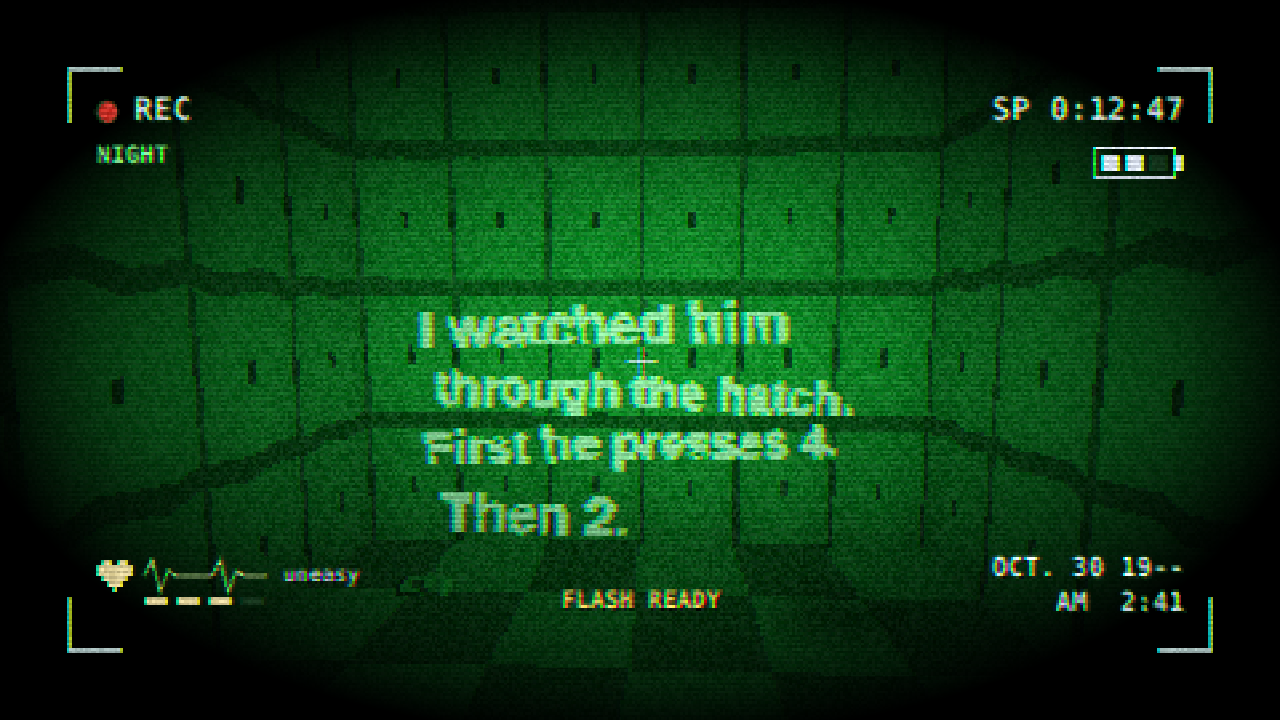
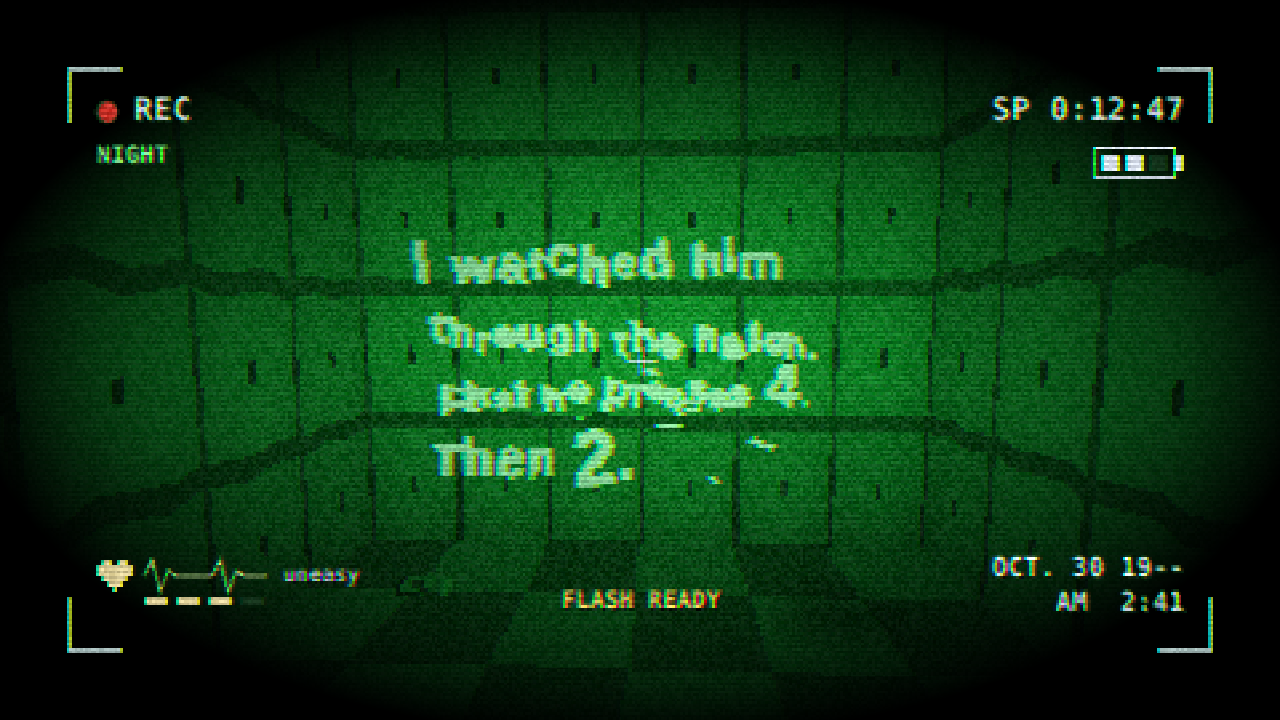
0.2.72: spare batteries feed the camcorder; treatment room and night writing stills redone
Owner picks: the flashlight's batteries fit the camcorder (battery key
while it is raised). Stills: the treatment chair in a pool of light with
instruments, a stain and a box under it; the cell writing as a child's
scratching. New mockup props: surgeryLamp, instrumentTray, floorStain.

Claude-Session: https://claude.ai/code/session_01Kt2ajWcwzg7QhP3mDk3ZUu

Changed region(s): [[0.3125, 0.3361, 0.6875, 0.7639]]

diff --git a/src/props/wardUpper.js b/src/props/wardUpper.js
@@ -105,26 +105,93 @@ function observationGlass(t, { width = 2.4, height = 1.2, sill = 1.0 } = {}) {
 // the wall). "lines": what it says; "shown": false hides it (the game shows
 // it while the night view is on).
 function nightWriting(t, { lines = [], shown = true, width = 3.0 } = {}) {
-  const texture = canvasTexture(128, 72, (g) => {
-    g.clearRect(0, 0, 128, 72);
+  let seed = 7;
+  const random = () => (seed = (seed * 16807) % 2147483647) / 2147483647;
+  const texture = canvasTexture(160, 96, (g) => {
+    g.clearRect(0, 0, 160, 96);
+    g.strokeStyle = '#f0fff0';
     g.fillStyle = '#f0fff0';
-    g.textBaseline = 'top';
+    g.lineCap = 'round';
+    // A child's hand, scratched with a fingernail: each letter its own size
+    // and lean, the lines wandering, every stroke gone over twice.
     lines.slice(0, 4).forEach((line, i) => {
-      let size = 15;
-      g.font = `bold ${size}px sans-serif`;
-      while (size > 7 && g.measureText(line).width > 122) g.font = `bold ${(size -= 1)}px sans-serif`;
-      g.save();
-      g.translate(3 + (i % 2) * 4, 3 + i * 17);
-      g.rotate(((i % 2) * 2 - 1) * 0.025); // a child's hand: no line quite level
-      g.fillText(line, 0, 0);
-      g.restore();
+      const size = Math.min(17, 150 / (line.length * 0.62));
+      let x = 4 + random() * 6;
+      const base = 20 + i * 22;
+      for (const letter of line) {
+        const tall = size * (0.85 + random() * 0.3) * (/[0-9]/.test(letter) ? 1.4 : 1); // the numbers pressed harder
+        g.font = `bold ${tall}px sans-serif`;
+        g.save();
+        g.translate(x, base + (random() - 0.5) * 4 + (x / 160) * (i % 2 ? 5 : -4));
+        g.rotate((random() - 0.5) * 0.22);
+        g.fillText(letter, 0, 0);
+        g.fillText(letter, 0.6, 0.4); // gone over twice
+        g.restore();
+        x += g.measureText(letter).width + 0.6;
+      }
     });
+    for (let i = 0; i < 9; i++) { // stray scratches beside the words
+      const x = random() * 150;
+      const y = random() * 90;
+      g.lineWidth = 1;
+      g.beginPath();
+      g.moveTo(x, y);
+      g.lineTo(x + 3 + random() * 5, y + (random() - 0.5) * 5);
+      g.stroke();
+    }
   });
-  const writing = decal(texture, [width, (width * 72) / 128], [0, 0.75, 0.015], { transparent: true, unlit: true, opacity: 0.95, depthWrite: false });
+  const writing = decal(texture, [width, (width * 96) / 160], [0, 1.15, 0.015], { transparent: true, unlit: true, opacity: 0.95, depthWrite: false });
   writing.visible = shown;
   const prop = group(writing);
   prop.userData.setShown = (value) => (writing.visible = value);
   return prop;
 }
 
-export const WARD_UPPER_PROPS = { treatmentChair, tripod, camcorder, videoTape, observationGlass, nightWriting };
+// The lamp over the treatment chair: a wide enamel shade on an arm from the
+// ceiling, its bulb lit (the level puts the light under it).
+function surgeryLamp(t, { ceiling = 3.4, drop = 1.2 } = {}) {
+  const shade = new THREE.Mesh(new THREE.ConeGeometry(0.34, 0.2, 8, 1, true), new THREE.MeshBasicMaterial({ color: 0x8a9088, side: THREE.DoubleSide }));
+  shade.position.y = ceiling - drop;
+  const bulb = new THREE.Mesh(new THREE.SphereGeometry(0.07, 6, 4), new THREE.MeshBasicMaterial({ color: 0xf2f6ff }));
+  bulb.position.y = ceiling - drop - 0.06;
+  return group(box(t.iron, [0.03, drop - 0.1, 0.03], [0, ceiling - drop + 0.1, 0], { color: '#3a3c3a' }), shade, bulb);
+}
+
+// A steel tray of instruments on a stand: a row of thin tools, a kidney
+// dish, a folded cloth.
+function instrumentTray(t) {
+  const steel = { color: '#b0b4ae' };
+  const tools = [-0.16, -0.1, -0.04, 0.02, 0.08].map((x, i) => box(t.iron, [0.012, 0.01, 0.16 + (i % 2) * 0.05], [x, 0.905, 0.02], steel));
+  return group(
+    box(t.iron, [0.03, 0.86, 0.03], [0, 0, 0], steel),
+    box(t.iron, [0.4, 0.03, 0.04], [0, 0, 0], steel),
+    box(t.iron, [0.04, 0.03, 0.4], [0, 0, 0], steel),
+    box(t.iron, [0.5, 0.02, 0.34], [0, 0.88, 0], steel),
+    ...tools,
+    box(t.sheet, [0.12, 0.03, 0.08], [0.17, 0.9, -0.08], { color: '#8a9a9a' }),
+    box(t.sheet, [0.14, 0.02, 0.1], [0.16, 0.9, 0.08], { color: '#c8c4b4' }),
+  );
+}
+
+// A dark old stain on the floor (walkable), soaked in around a drain or a chair.
+function floorStain(t, { width = 1.4, depth = 1.1 } = {}) {
+  let seed = 4;
+  const random = () => (seed = (seed * 16807) % 2147483647) / 2147483647;
+  const texture = canvasTexture(24, 24, (g) => {
+    g.clearRect(0, 0, 24, 24);
+    for (let y = 0; y < 24; y++) {
+      for (let x = 0; x < 24; x++) {
+        const d = Math.hypot(x - 11.5, y - 11.5) / 12 + (random() - 0.5) * 0.35;
+        if (d < 1) {
+          g.fillStyle = `rgba(${34 + random() * 14},${14 + random() * 8},${10 + random() * 6},${Math.min(0.85, (1 - d) * 1.6)})`;
+          g.fillRect(x, y, 1, 1);
+        }
+      }
+    }
+  });
+  const stain = decal(texture, [width, depth], [0, 0.012, 0], { transparent: true, depthWrite: false });
+  stain.rotation.x = -Math.PI / 2;
+  return group(stain);
+}
+
+export const WARD_UPPER_PROPS = { treatmentChair, tripod, camcorder, videoTape, observationGlass, nightWriting, surgeryLamp, instrumentTray, floorStain };

diff --git a/src/mockups/wardRoomStills.js b/src/mockups/wardRoomStills.js
@@ -155,21 +155,30 @@ export const WARD_ROOM_STILLS = {
     },
     ui: (ctx) => message(ctx, 'A camcorder, on its side. Its red light is still on.'),
   },
-  // The treatment room, seen through the glass: the chair under its lamp.
+  // The treatment room, seen through the glass: the chair in a hard pool of
+  // light, the instruments beside it, a box under it for feet that did not
+  // reach the floor, a small shoe left by the drain.
   treatment_room: {
     level: rooms,
-    setup({ world }) {
+    setup({ world, fx }) {
       world.flashlight.toggle();
       furnish(world, [
-        ['treatmentChair', 4, 15.0, 0], ['trolley', 5.3, 15.0, 70], ['dripStand', 2.8, 14.6, 0], ['examCouch', 1.8, 14.2, 90],
-        ['floorDrain', 4, 16, 0], ['puddle', 4.3, 15.9, 0], ['tileDecay', 4, 13, 0, { width: 2, height: 1.2, y: 1.6, seed: 5 }],
-        ['fallenTiles', 4.2, 13.5, 0, { seed: 7 }], ['bucketMop', 6.4, 13.6, 0], ['observationGlass', 4, 16.6, 180, { width: 3 }],
-        ['hangingBulb', 4, 15.0, 0, { ceiling: 3.4, lit: true }],
+        ['treatmentChair', 4, 15.0, 0], ['surgeryLamp', 4, 15.25, 0, { drop: 1.3 }], ['floorStain', 4, 15.35, 0], ['floorDrain', 4.5, 15.9, 0],
+        ['instrumentTray', 4.85, 15.25, -30], ['trolley', 3.0, 15.2, 100], ['dripStand', 3.3, 14.7, 0], ['examCouch', 1.8, 14.2, 90],
+        ['toyBox', 4, 15.42, 0, {}, 0, 0.55], ['shoes', 4.75, 15.75, 40], ['sheetPile', 2.6, 15.6, 0], ['bucketMop', 6.4, 13.6, 0],
+        ['tileDecay', 4, 13, 0, { width: 2.2, height: 1.4, y: 1.6, seed: 5 }], ['tileDecay', 1.02, 15, 90, { width: 1.4, height: 1, y: 1.2, seed: 2 }],
+        ['fallenTiles', 4.2, 13.5, 0, { seed: 7 }], ['handprints', 5.6, 13, 0], ['wallScratches', 2.6, 13, 0, { seed: 4 }],
+        ['recordsCabinet', 6.7, 14.6, -90, { lock: false }], ['wallClock', 5.9, 13, 0], ['observationGlass', 4, 16.6, 180, { width: 3 }],
       ]);
-      const cold = new THREE.PointLight('#cfe0ff', 12, 7, 1.1);
-      cold.position.set(4 * CELL, 2.5, 15.0 * CELL);
-      world.scene.add(cold);
-      eye(world, [4.7, 16.95], [4, 15.0], 1.6, 1.0);
+      const pool = new THREE.SpotLight('#eaf2ff', 70, 6, 0.75, 0.6, 1.1);
+      pool.position.set(4 * CELL, 2.9, 15.6 * CELL);
+      const fill = new THREE.PointLight('#8fa6cc', 5, 8, 1.2); // what the lamp throws back off the tiles
+      fill.position.set(4 * CELL, 1.6, 15.9 * CELL);
+      world.scene.add(fill);
+      pool.target.position.set(4 * CELL, 0, 15.25 * CELL);
+      world.scene.add(pool, pool.target);
+      eye(world, [4.75, 16.95], [4, 15.1], 1.6, 0.95);
+      Object.assign(fx, { vignette: 0.35 });
     },
     ui: (ctx) => message(ctx, 'A chair with straps, under a lamp. The door has no handle on this side.'),
   },

diff --git a/tests/camcorder.spec.js b/tests/camcorder.spec.js
@@ -93,6 +93,28 @@ test('she cannot see the night view; the flash stuns her for 5 s and then needs 
   expect(result.collapsed).toBe(false);
 });
 
+test('a spare battery feeds the camcorder while it is raised, the flashlight otherwise', async ({ page }) => {
+  const result = await game(page, () => {
+    const g = window.__stAgnes;
+    g.progress.setFlag('tool_camcorder');
+    g.inventory.add('battery');
+    g.inventory.add('battery');
+    g.input.tap('camcorder');
+    g.advance(0.1);
+    const before = g.camcorder.battery();
+    g.input.tap('battery');
+    g.advance(0.1);
+    const fed = { camcorder: g.camcorder.battery(), left: g.inventory.items().length };
+    g.input.tap('battery'); // already full: the second one stays in the pocket
+    g.advance(0.1);
+    return { before, fed, kept: g.inventory.items().length };
+  });
+  expect(result.before).toBeLessThanOrEqual(50);
+  expect(result.fed.camcorder).toBeGreaterThan(99);
+  expect(result.fed.left).toBe(1);
+  expect(result.kept).toBe(1);
+});
+
 test('writing in the isolation cells shows only in the night view', async ({ page }) => {
   const shown = await game(page, () => {
     const g = window.__stAgnes;

diff --git a/src/player/camcorder.js b/src/player/camcorder.js
@@ -10,7 +10,8 @@
 //      charges for 20 s.
 // Its own battery (progress value camcorder_battery, 0–100; half gone when
 // found) runs down while it is raised, faster in the night view; flat, it
-// will not come up. All three keys can be rebound.
+// will not come up; a spare flashlight battery, used while it is raised (B),
+// fills it. All three keys can be rebound.
 import * as THREE from 'three';
 import { clearLine } from '../ai/gaze.js';
 
@@ -117,6 +118,14 @@ export function createCamcorder(game) {
     nightOn,
     night: () => night,
     battery,
+    // A spare battery (owner pick 2026-11-16: the flashlight's batteries fit it): full again.
+    recharge() {
+      if (battery() > 95) return false;
+      setBattery(100);
+      game.events.emit('battery.replaced');
+      game.messages.show('msg.camcorderBattery', null, 3);
+      return true;
+    },
     flashReady: () => charge <= 0,
     charging: () => charge,
   };

diff --git a/src/main.js b/src/main.js
@@ -129,8 +129,9 @@ function createGame() {
   });
   game.battery = createBattery(game);
   game.itemEffects = {
+    // A spare battery feeds whichever is in hand: the camcorder while it is raised, else the flashlight.
     battery: () => {
-      if (game.battery.replace()) game.inventory.remove('battery');
+      if (game.camcorder.raised() ? game.camcorder.recharge() : game.battery.replace()) game.inventory.remove('battery');
       return true;
     },
     pills: () => {

diff --git a/docs/DESIGN_0.4.md b/docs/DESIGN_0.4.md
@@ -236,13 +236,25 @@ card).
   flicker-off) that stuns her for 5 s if she is in front of you within 9 m; then 20 s to charge.
   All three keys can be rebound, and are listed in Controls once it is found (settings version 4, with a migration).
 - Its battery (progress value `camcorder_battery`): half gone when found, 15 minutes raised from
-  full, 1.6 times faster in the night view, 3 per flash. Flat, it will not come up. No way to
-  recharge it yet (an open point for part B).
+  full, 1.6 times faster in the night view, 3 per flash. Flat, it will not come up. A spare
+  flashlight battery fills it (the battery key, while it is raised).
 - The date and time on its display are your own clock's (local time, no network); the year never
   shows. The pulse is shown only on the camcorder once it is found, as the brief says.
 - For sanity the night view counts as light in hand, like the flashlight.
 - Writing that only the night view shows: props with `userData.setShown` (`nightWriting`).
 - Tests: `tests/camcorder.spec.js`.
+
+## Owner's picks on part B (2026-11-16)
+- **Stills approved,** with the treatment room and the night writing redone: the chair now stands
+  in a hard pool of light with an instrument tray, a stain round the drain, a box under it for feet
+  that did not reach the floor and a small shoe (aftermath only); the writing is a child's
+  uneven scratching, its numbers pressed harder. Both waiting for a second look.
+- **Camcorder battery:** the flashlight's spare batteries fit it. With it raised, the battery key
+  puts one in (full again); lowered, the key feeds the flashlight as before (built, 0.2.72).
+- **Flash:** 5 s stun, 20 s charge, to be tuned after part B is played.
+- **Part B in two steps:** B1 the first floor to walk, the stairs between floors, the camcorder and
+  tape, Sister M. following you up and down; B2 the television, the writing, Dr. Venn's door and
+  office, T. Hale's file page 3.
 
 ## Next
 The owner's checklist on the content sheet and the priority 1 sounds; stills

diff --git a/CHANGELOG.md b/CHANGELOG.md
@@ -2,6 +2,7 @@
 
 Newest first. One line per change.
 
+- 0.2.72 — The flashlight's spare batteries also fit the camcorder: with it raised, the battery key puts one in. 0.4 stills: the treatment room and the writing in the isolation cells redone after the owner's notes.
 - 0.2.71 — Nora's camcorder is built (it is found upstairs, in the part still to come): C raises it, N is a green night view that Sister M. cannot see, the right mouse button fires a flash that stuns her for a few seconds and then has to charge. It has its own battery and display. Its three keys appear in Controls once it is found.
 - 0.2.70 — 0.4 stills of the first floor: the observation room with Nora's camcorder, the treatment room through the glass, an isolation cell by flashlight and in the night view (the writing on the padding), Dr. Venn's office. Nothing in the game changes.
 - 0.2.69 — West wing ground floor finished. Sister M. can no longer be avoided: passing Ward A's doors opens one by itself and starts her round. The stairs now need a heavy fuse that only the dispensary cabinet holds, so the medicine round cannot be skipped. Also: the wing's plan for the journal, the call board ringing for bed 7, lightning stopping her for a moment, the music box's case, lamps that steady your mind, and a radiator that blocked the children's ward door. A bot now plays the floor through.
